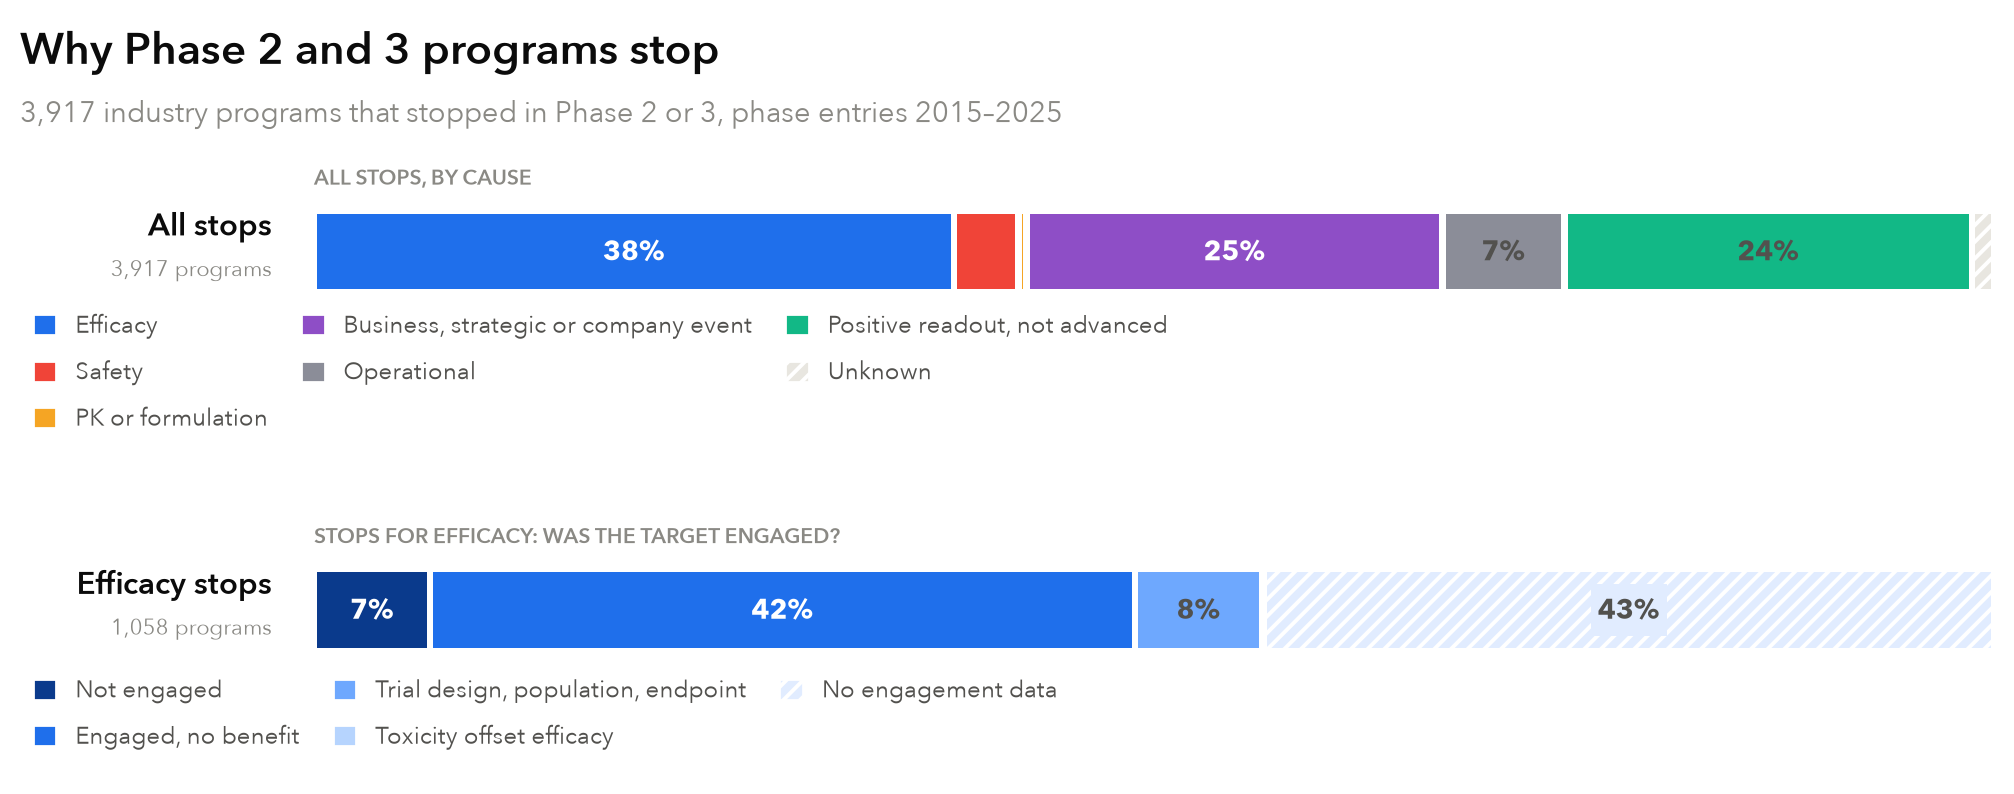
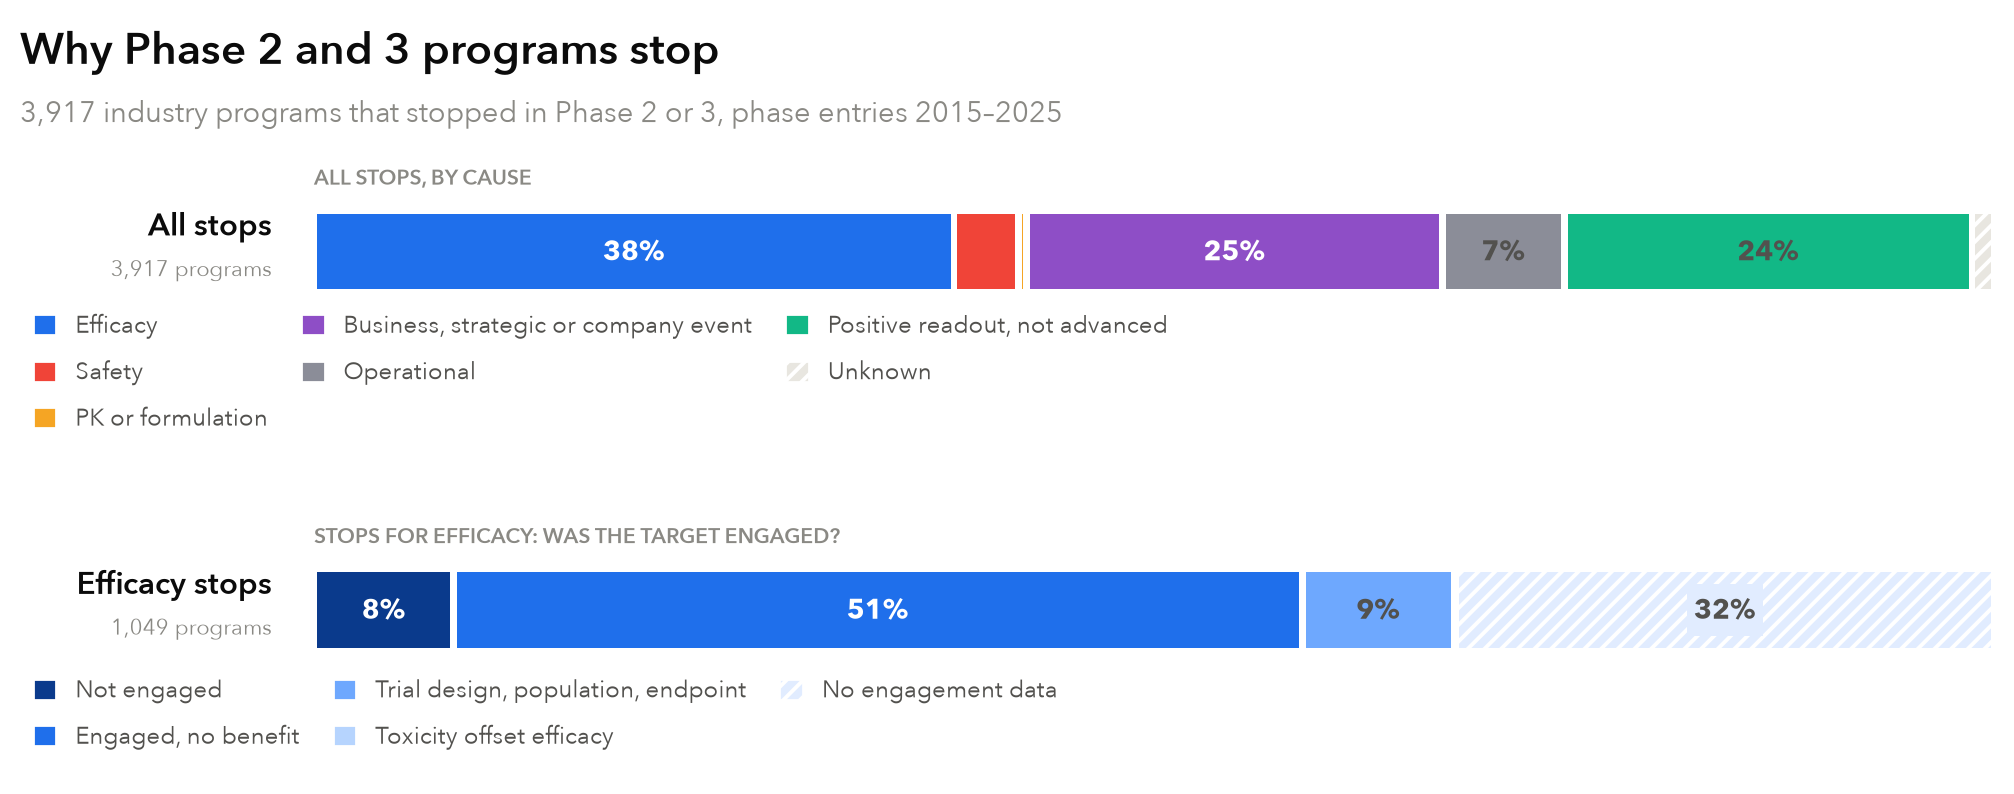
Attribution report: web-search labels replace indeterminate ones; bundle-only kept as a variant; narrative and figure updated

diff --git a/report/attribution.py b/report/attribution.py
@@ -108,6 +108,8 @@ def search_summary(d: pd.DataFrame) -> dict:
                                   if both.any() else None,
                                   "search_decided_outside_u": int(((m.primary_code != "U") & (m.adjudicated == "U")).sum()),
                                   "outside_decided_search_u": int(((m.primary_code == "U") & (m.adjudicated != "U")).sum()),
+                                  "outside_decided_search_u_groups":
+                                      gb[(m.primary_code == "U") & (m.adjudicated != "U")].value_counts().to_dict(),
                                   "pairs": [[a, b] for a, b in zip(m.group, gb)]}
     return out
 

diff --git a/report/narrative/section1_efficacy.md b/report/narrative/section1_efficacy.md
@@ -1,6 +1,6 @@
 ### Why efficacy failed: the target was not engaged, or it was the wrong target
 
-A program that fails on efficacy fails in one of two ways that matter for target selection: the drug never engaged its target well enough in patients, so the target hypothesis was never tested, or it engaged the target and the disease did not respond. For each of the {{attribution.phase23.programs|int}} Phase 2 and Phase 3 programs above that stopped for efficacy and that the model would label ({{attribution.unlabelled.phase23|int}} more, mostly gene and cell therapies and live biotherapeutics, were refused), an LLM read an evidence bundle: the failed trial's record, posted results and papers, the drug's other trials and their outcomes, results posted by its Phase 1 trials, its FDA approvals, other drugs on the same target in the same or a related disease, and PubMed abstracts on the drug's human pharmacology and on the drug in that disease. It judged, for humans and at the doses tested, the three pillars of [Morgan et al. 2012](https://doi.org/10.1016/j.drudis.2011.12.020): exposure at the site of action, binding or engagement of the target, and the expected pathway effect. Engagement could also be inferred when the drug worked in another disease through the same target and tissue compartment at a comparable dose. It then coded the failure, using only the bundle and citing the sources it used. The plan was fixed before any program was labelled (`report/attribution_plan.md`).
+A program that fails on efficacy fails in one of two ways that matter for target selection: the drug never engaged its target well enough in patients, so the target hypothesis was never tested, or it engaged the target and the disease did not respond. For each of the {{attribution.phase23.programs|int}} Phase 2 and Phase 3 programs above that stopped for efficacy and that the model would label ({{attribution.unlabelled.phase23|int}} more, mostly gene and cell therapies and live biotherapeutics, were refused), an LLM read an evidence bundle: the failed trial's record, posted results and papers, the drug's other trials and their outcomes, results posted by its Phase 1 trials, its FDA approvals, other drugs on the same target in the same or a related disease, and PubMed abstracts on the drug's human pharmacology and on the drug in that disease. It judged, for humans and at the doses tested, the three pillars of [Morgan et al. 2012](https://doi.org/10.1016/j.drudis.2011.12.020): exposure at the site of action, binding or engagement of the target, and the expected pathway effect. Engagement could also be inferred when the drug worked in another disease through the same target and tissue compartment at a comparable dose. It then coded the failure, using only the bundle and citing the sources it used. The plan was fixed before any program was labelled (`report/attribution_plan.md`). Where the bundle held no human evidence of engagement ({{attribution.bundle_only.groups.indeterminate.share|pct0}} of programs), a second pass, added to the plan after the first results, gave the same model the same bundle and the web: it searched full-text papers, conference reports, FDA and EMA reviews and company releases for human pharmacology, and could cite only pages its own searches returned. It decided {{attribution.search.decided|int}} of the {{attribution.search.searched|int}} programs it searched; the figures below use those labels.
 
 {{ATTRIBUTION_TABLE}}
 
@@ -11,10 +11,10 @@ Where the record shows whether the mechanism was tested, the drug had engaged it
 * *Engaged, no benefit.* Venglustat cut glucosylceramide in the cerebrospinal fluid of people with *GBA1* Parkinson's disease by about 73% at the top dose ([Peterschmitt 2022](https://doi.org/10.3233/JPD-212714)), and over a year their motor scores worsened by 7.3 points on drug against 4.7 on placebo ([MOVES-PD](https://doi.org/10.1016/S1474-4422(23)00205-3)). CSL112, plasma-derived apolipoprotein A1 that raises cholesterol efflux capacity, did not reduce myocardial infarction, stroke or cardiovascular death at 90 days in 18,219 patients after myocardial infarction (hazard ratio 0.93, 0.81–1.05; [AEGIS-II](https://doi.org/10.1056/NEJMoa2400969)).
 * *Not engaged.* PF-06687234, an IL-10 fusion protein added to infliximab for ulcerative colitis, was stopped for futility, and was detected, at low concentration, in only one colon tissue sample: the drug may never have reached the inflamed mucosa at a useful level ([Ther Adv Gastroenterol 2026](https://doi.org/10.1177/17562848251410784)).
 
-**The large caveat is what the public record does not say.** For {{attribution.phase23.groups.indeterminate.share|pct0}} of efficacy failures there is no human evidence of engagement either way, so a drug that never engaged and a target that does not matter cannot be told apart. Engagement was shown in patients with the program's disease for only {{attribution.coverage.engaged_in_disease|pct0}} of the programs where it was shown at all, and was public or registered before the failed trial started for {{attribution.coverage.engaged_before_index|pct0}}. The gap need not be neutral: a drug that never engaged its target leaves less to publish, and engagement inferred from success in another disease can only add to the engaged side. When outside researchers were given {{attribution.adjudication.pipeline_u|int}} programs the pipeline left indeterminate (below), they could decide {{attribution.adjudication.pipeline_u_decided_outside|int}}, and non-engagement was more common among those than among the programs the pipeline decided. If the indeterminate programs split the way those did, non-engagement is about {{attribution.bounds.indeterminate_split_as_adjudicated|pct0}} of failures whose mechanism was tested; if every indeterminate program were a failure to engage, the ceiling is {{attribution.bounds.all_indeterminate_not_engaged|pct0}}. Counting only directly measured engagement gives the same direction:
+**The large caveat is what the public record does not say.** For {{attribution.phase23.groups.indeterminate.share|pct0}} of efficacy failures there is still no human evidence of engagement either way, after the web search, so a drug that never engaged and a target that does not matter cannot be told apart. Engagement was shown in patients with the program's disease for only {{attribution.coverage.engaged_in_disease|pct0}} of the programs where it was shown at all, and was public or registered before the failed trial started for {{attribution.coverage.engaged_before_index|pct0}}. The gap need not be neutral: a drug that never engaged its target leaves less to publish, and engagement inferred from success in another disease can only add to the engaged side. The search did not bear that out among the programs it could decide: {{attribution.search.not_engaged|int}} of the {{attribution.search.testable|int}} it found tested were not engaged ({{attribution.search.not_engaged_share|pct0}}), the same share as among programs the bundle decided, so the headline did not move. If every program still indeterminate were a failure to engage, the ceiling is {{attribution.bounds.all_indeterminate_not_engaged|pct0}}. Counting only directly measured engagement gives the same direction:
 
 {{ATTRIBUTION_SENSITIVITY_TABLE}}
 
-**Checks.** A second model, given the same bundles and asked the pillar questions one at a time before choosing any code, relabelled a seeded random sample of {{attribution.rederivation.sampled|int}} programs ({{attribution.rederivation.n|int}} with a validated label from both): it agreed on the not-engaged / engaged / other split for {{attribution.rederivation.three_way_agree|pct0}} (κ = {{attribution.rederivation.three_way_kappa|x2}}) and on whether the target was engaged for {{attribution.rederivation.engaged_agree|pct0}}. Separately, agents with web access researched a seeded random sample of {{attribution.adjudication.sampled|int}} programs from scratch (publications, conference reports, company releases), without the pipeline's labels ({{attribution.adjudication.n|int}} also have a pipeline label): they agreed on the three-way split for {{attribution.adjudication.three_way_agree|pct0}} (κ = {{attribution.adjudication.three_way_kappa|x2}}) and on the group for {{attribution.adjudication.decided_group_agree|pct0}} of the programs the pipeline decided; they never called engaged a program the pipeline called not engaged, or the reverse ({{attribution.adjudication.contradictions|int}} contradictions). On their own, they found {{attribution.adjudication.adjudicated_not_engaged|int}} failures to engage among {{attribution.adjudication.adjudicated_testable|int}} programs whose mechanism they could judge ({{attribution.adjudication.adjudicated_not_engaged_share|pct0}}). The pre-registered construct checks were uninformative rather than contradictory: programs coded not engaged and engaged-without-benefit did not differ in whether other drugs on their target failed ({{attribution.construct.a_same_target_failed.share_F1a|pct0}} against {{attribution.construct.a_same_target_failed.share_F2|pct0}}) or advanced ({{attribution.construct.b_same_target_advanced.share_F1a|pct0}} against {{attribution.construct.b_same_target_advanced.share_F2|pct0}}) in the disease, or in germline genetic support ({{attribution.construct.c_g3.share_F1a|pct0}} against {{attribution.construct.c_g3.share_F2|pct0}}), with only {{attribution.construct.c_g3.n.F1a|int}} programs coded F1a.
+**Checks.** A second model, given the same bundles and asked the pillar questions one at a time before choosing any code, relabelled a seeded random sample of {{attribution.rederivation.sampled|int}} programs ({{attribution.rederivation.n|int}} with a validated label from both): it agreed on the not-engaged / engaged / other split for {{attribution.rederivation.three_way_agree|pct0}} (κ = {{attribution.rederivation.three_way_kappa|x2}}) and on whether the target was engaged for {{attribution.rederivation.engaged_agree|pct0}}. Separately, agents with web access researched a seeded random sample of {{attribution.adjudication.sampled|int}} programs from scratch (publications, conference reports, company releases), without the pipeline's labels ({{attribution.adjudication.n|int}} also have a pipeline label): they agreed on the three-way split for {{attribution.adjudication.three_way_agree|pct0}} (κ = {{attribution.adjudication.three_way_kappa|x2}}) and on the group for {{attribution.adjudication.decided_group_agree|pct0}} of the programs the pipeline decided; they never called engaged a program the pipeline called not engaged, or the reverse ({{attribution.adjudication.contradictions|int}} contradictions). Of the {{attribution.search.adjudicated.n|int}} adjudicated programs the bundle had left indeterminate, the web search and the outside researchers both decided {{attribution.search.adjudicated.both_decided|int}} and agreed on {{attribution.search.adjudicated.three_way_agree_both_decided|pct0}} of them; the search never decided one the researchers could not, and the researchers decided {{attribution.search.adjudicated.outside_decided_search_u|int}} that the search left open ({{attribution.search.adjudicated.outside_decided_search_u_groups.not_engaged|int}} of them not engaged). On their own, they found {{attribution.adjudication.adjudicated_not_engaged|int}} failures to engage among {{attribution.adjudication.adjudicated_testable|int}} programs whose mechanism they could judge ({{attribution.adjudication.adjudicated_not_engaged_share|pct0}}). The pre-registered construct checks were uninformative rather than contradictory: programs coded not engaged and engaged-without-benefit did not differ in whether other drugs on their target failed ({{attribution.construct.a_same_target_failed.share_F1a|pct0}} against {{attribution.construct.a_same_target_failed.share_F2|pct0}}) or advanced ({{attribution.construct.b_same_target_advanced.share_F1a|pct0}} against {{attribution.construct.b_same_target_advanced.share_F2|pct0}}) in the disease, or in germline genetic support ({{attribution.construct.c_g3.share_F1a|pct0}} against {{attribution.construct.c_g3.share_F2|pct0}}), with only {{attribution.construct.c_g3.n.F1a|int}} programs coded F1a.
 
-The answer to "was the target wrong, or was it never hit?" is therefore: where anyone can tell, the target was usually hit. Among efficacy failures whose mechanism was tested, {{attribution.bounds.labelled|pct0}} failed to engage ({{attribution.sensitivity_range.lo|pct0}} to {{attribution.sensitivity_range.hi|pct0}} across the variants above, about {{attribution.bounds.indeterminate_split_as_adjudicated|pct0}} if the indeterminate programs resemble those outside research could decide); in the rest the drug engaged its target and the disease did not move. For {{attribution.phase23.groups.indeterminate.share|pct0}} of failures the public record cannot say.
+The answer to "was the target wrong, or was it never hit?" is therefore: where anyone can tell, the target was usually hit. Among efficacy failures whose mechanism was tested, {{attribution.bounds.labelled|pct0}} failed to engage ({{attribution.sensitivity_range.lo|pct0}} to {{attribution.sensitivity_range.hi|pct0}} across the variants above); in the rest the drug engaged its target and the disease did not move. For {{attribution.phase23.groups.indeterminate.share|pct0}} of failures the public record, searched, cannot say.
